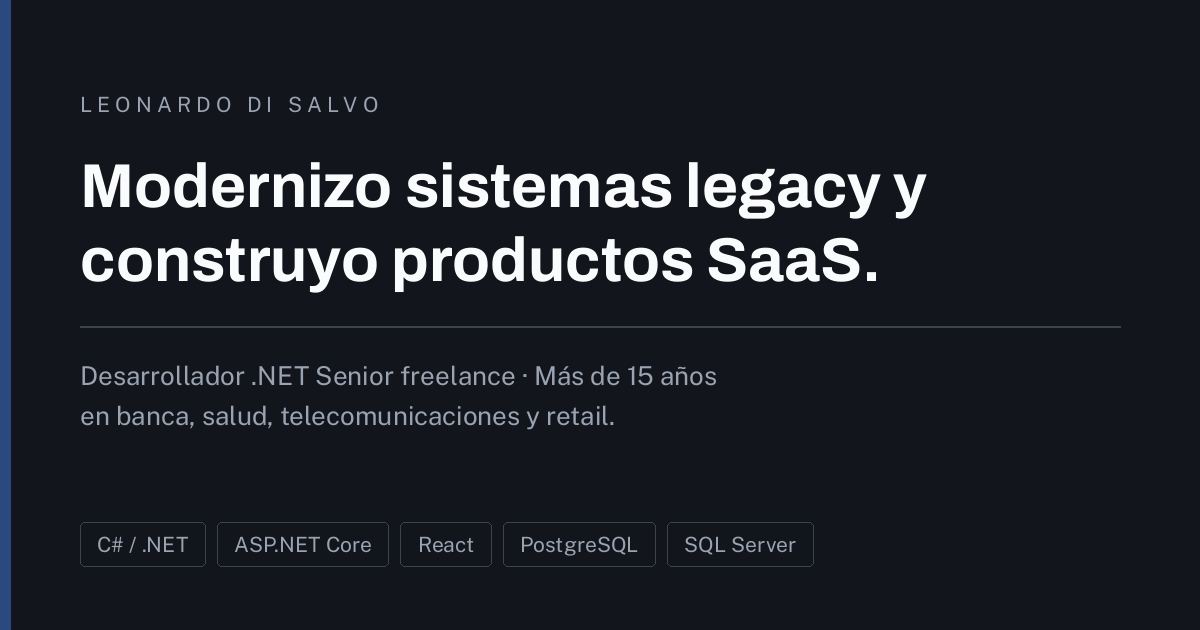
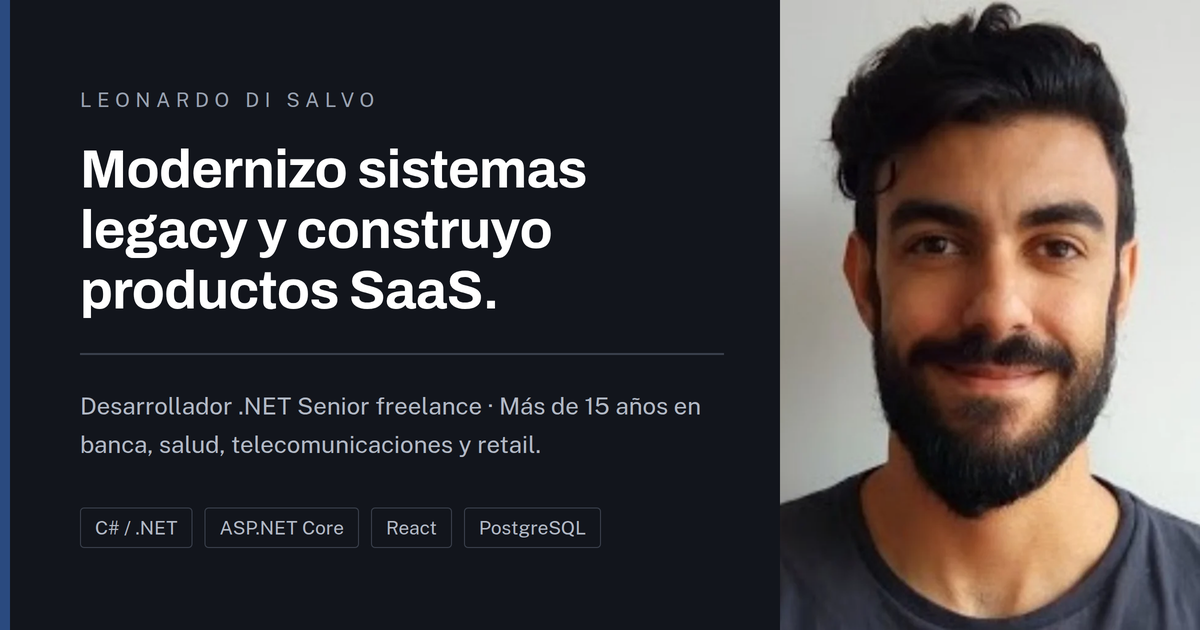
Foto del hero y nueva imagen Open Graph
- images/leo.webp: retrato 4:5 (820x1025) en lugar del placeholder.
- Hero: la foto es siempre 4:5; en mobile como tarjeta acotada en vez de un
  recorte apaisado que cortaba pelo y mentón.
- Alt de la foto actualizado en ES/EN.
- images/og.png regenerada con la foto.

diff --git a/assets/js/translations.js b/assets/js/translations.js
@@ -29,7 +29,7 @@ window.TRANSLATIONS = {
     'hero.lead':        'Desarrollador .NET con más de 15 años en banca, salud, telecomunicaciones y retail. Trabajo freelance, con un flujo de desarrollo asistido por IA que acelera la entrega sin resignar calidad.',
     'hero.cta_primary': 'Hablemos de tu proyecto',
     'hero.cta_secondary': 'Ver casos',
-    'hero.photo_alt':   'Leonardo Di Salvo, desarrollador .NET, trabajando en su escritorio',
+    'hero.photo_alt':   'Retrato de Leonardo Di Salvo, desarrollador .NET freelance',
     'hero.stack_aria':  'Stack principal',
 
     /* --- Empresas -------------------------------------------------------- */
@@ -149,7 +149,7 @@ window.TRANSLATIONS = {
     'hero.lead':        '.NET developer with 15+ years in banking, healthcare, telecom and retail. I work freelance, with an AI-assisted development workflow that speeds up delivery without cutting corners on quality.',
     'hero.cta_primary': "Let's talk about your project",
     'hero.cta_secondary': 'See my work',
-    'hero.photo_alt':   'Leonardo Di Salvo, .NET developer, working at his desk',
+    'hero.photo_alt':   'Portrait of Leonardo Di Salvo, freelance .NET developer',
     'hero.stack_aria':  'Core stack',
 
     /* --- Companies ------------------------------------------------------- */

diff --git a/assets/css/site.css b/assets/css/site.css
@@ -616,10 +616,11 @@ s {
   margin: 0;
 }
 
+/* Retrato 4:5 siempre: en mobile como tarjeta acotada (un recorte apaisado
+   de un primer plano corta pelo y mentón); en desktop ocupa la columna. */
 .hero__figure img {
-  width: 100%;
-  aspect-ratio: 4 / 3;
-  max-height: 20rem;
+  width: min(100%, 17rem);
+  aspect-ratio: 4 / 5;
   object-fit: cover;
   border-radius: var(--radius-md);
   background: var(--color-bg-alt);
@@ -627,8 +628,7 @@ s {
 
 @media (width >= 60rem) {
   .hero__figure img {
-    aspect-ratio: 4 / 5;
-    max-height: none;
+    width: 100%;
   }
 }
 

diff --git a/index.html b/index.html
@@ -129,10 +129,10 @@
           <figure class="hero__figure">
             <img
               data-img="hero"
-              src="images/placeholders/hero.svg"
-              width="1000"
-              height="1250"
-              alt="Leonardo Di Salvo, desarrollador .NET, trabajando en su escritorio"
+              src="images/leo.webp"
+              width="820"
+              height="1025"
+              alt="Retrato de Leonardo Di Salvo, desarrollador .NET freelance"
               data-i18n-alt="hero.photo_alt"
             />
           </figure>

diff --git a/assets/js/config.js b/assets/js/config.js
@@ -33,9 +33,8 @@ window.SITE_CONFIG = {
   },
 
   /* --- Foto del hero ----------------------------------------------------- */
-  // PENDIENTE: foto nueva (plano medio, trabajando en el setup, luz natural).
-  // Sugerido: images/leo.webp (1000x1250) + images/leo.jpg de fallback.
-  heroImage: 'images/placeholders/hero.svg',
+  // Retrato 4:5 (820x1025). Si se cambia, mantener la proporción 4:5.
+  heroImage: 'images/leo.webp',
 
   /* --- CV / résumé por idioma -------------------------------------------- */
   cv: {

diff --git a/REDISENIO.md b/REDISENIO.md
@@ -53,7 +53,6 @@ se puede publicar algo roto sin darse cuenta.
 
 | Qué falta | Dónde se completa |
 |---|---|
-| Foto nueva del hero | `config.heroImage` — sugerido `images/leo.webp`, 1000×1250, plano medio, luz natural |
 | Logo de Telmex (Bistrosoft queda en texto: su isotipo solo no se reconoce) | `config.companies[].logo` — ver abajo |
 | Logos en SVG oficial (los PNG actuales salen de avatares de LinkedIn de 100 px) | `images/empresas/` |
 | CV actualizado ES y EN | reemplazar los dos PDF de la raíz (los nombres están en `config.cv`) |
@@ -76,7 +75,7 @@ Dos condiciones:
 ### Imagen Open Graph
 
 `images/og.png` (1200×630) se generó con la paleta y las tipografías del sistema,
-sin foto. Cuando esté la foto del hero conviene regenerarla incluyéndola.
+con la foto del hero a la derecha. Si cambia la foto o el copy, conviene regenerarla.
 
 ## Idiomas
 
